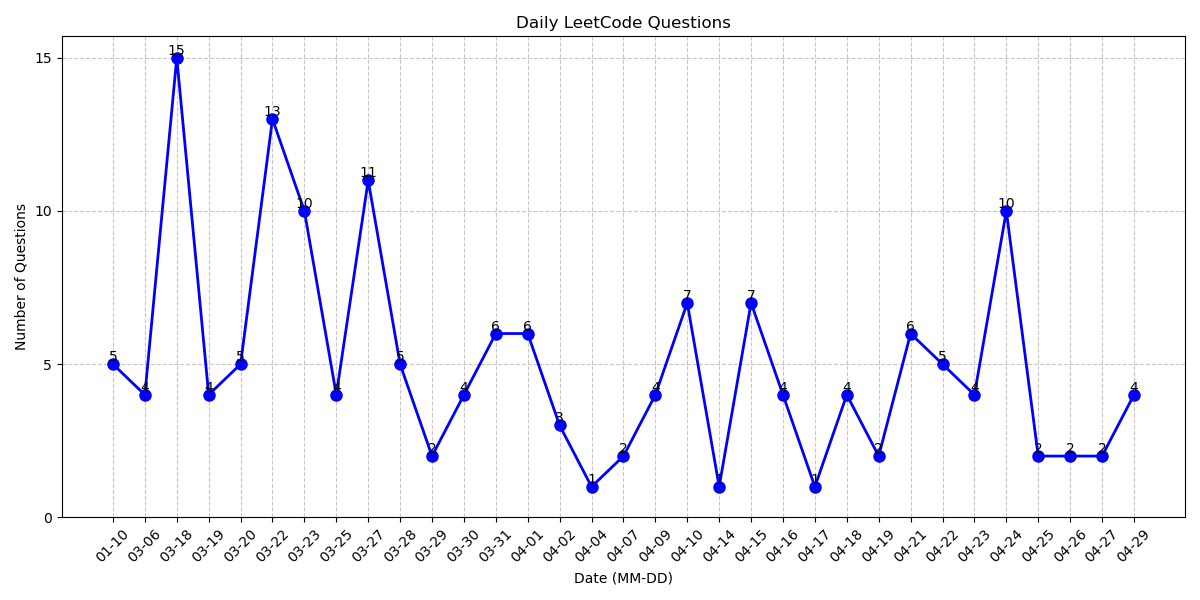
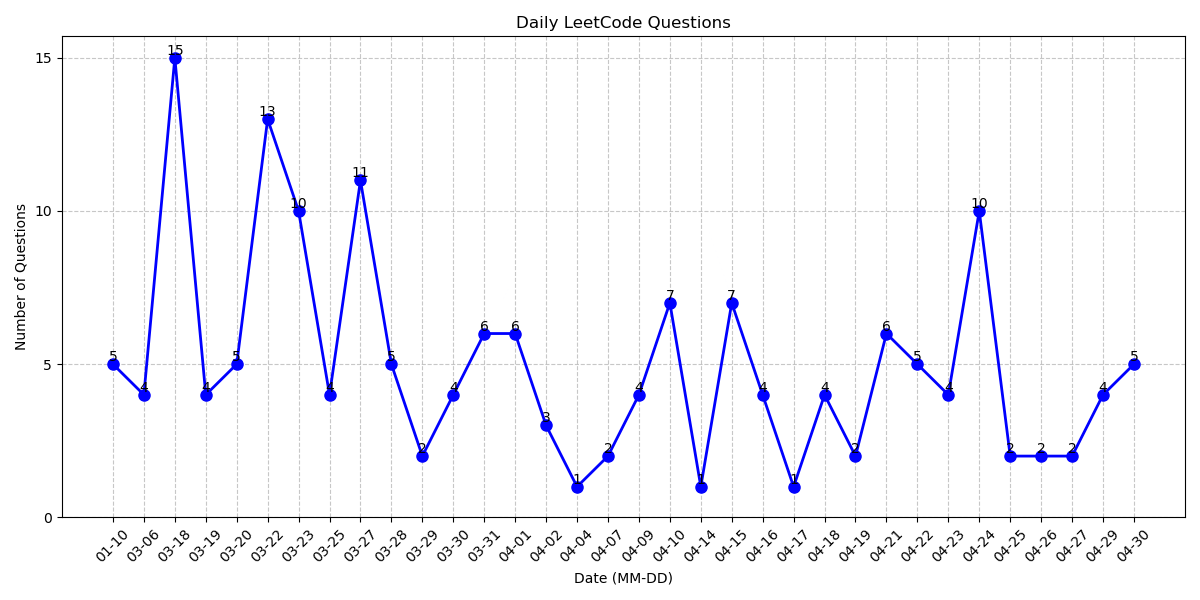
4/30 pratices linklist, stack, daily leecode

Changed region(s): [[0.1233, 0.06, 0.9558, 0.84], [0.0925, 0.87, 0.9558, 0.93], [0.0925, 0.6, 0.1233, 0.66]]

diff --git a/LinkList/25. Reverse Nodes in k-Group.cpp b/LinkList/25. Reverse Nodes in k-Group.cpp
@@ -1,0 +1,74 @@
+// solution
+/* 難到靠杯*/
+/**
+ * Definition for singly-linked list.
+ * struct ListNode {
+ *     int val;
+ *     ListNode *next;
+ *     ListNode() : val(0), next(nullptr) {}
+ *     ListNode(int x) : val(x), next(nullptr) {}
+ *     ListNode(int x, ListNode *next) : val(x), next(next) {}
+ * };
+ */
+/*
+2->1  3->4->5
+
+2->1  4->3  5
+
+*/
+class Solution {
+  public:
+	ListNode *reverseKGroup(ListNode *head, int k) {
+		ListNode *dummy = new ListNode(0);
+		dummy->next = head;
+		ListNode *prev_group_end = dummy;
+		while (true) {
+			ListNode *group_start =
+			    prev_group_end->next; // pointer to current group start
+			ListNode *k_th = findKthNode(group_start, k);
+			// 後續node不足k個, 不需要處理
+			if (!k_th)
+				break;
+			ListNode *next_group_start =
+			    k_th->next; // pointer to next group start
+
+			/* reverse group */
+			ListNode *prev =
+			    next_group_start; /* 先暫時黏到下一個group start,
+			                        如果下一個group不滿足ｋ個就不處理,
+			                        不然就會會在(handle different
+			                       group connection)處理
+			                      */
+			ListNode *cur = group_start;
+			while (cur != next_group_start) {
+				ListNode *tmp = cur->next;
+				cur->next = prev;
+				prev = cur;
+				cur = tmp;
+			}
+			/**/
+
+			/* handle different group connection */
+			// set prev_end next to kth
+			prev_group_end->next = k_th;
+
+			// update prev_group_end to current group start
+			prev_group_end = group_start;
+			/**/
+		}
+		return dummy->next;
+	}
+	ListNode *findKthNode(ListNode *start, int k) {
+		int count = 0;
+		ListNode *k_th = nullptr;
+		while (start != nullptr) {
+			++count;
+			if (count == k) {
+				k_th = start;
+				break;
+			}
+			start = start->next;
+		}
+		return k_th;
+	}
+};

diff --git a/Stack&Queue/735. Asteroid Collision.cpp b/Stack&Queue/735. Asteroid Collision.cpp
@@ -1,0 +1,40 @@
+// proficient
+/*
+遇到curr_num > 0不斷push到stack, 直到遇到curr_num < 0就將stack
+pop出來直到stack.top() > curr_num, 重複直到asteroids走完,
+剩下的stack就是剩下的asteroids
+*/
+class Solution {
+  public:
+	vector<int> asteroidCollision(vector<int> &asteroids) {
+		vector<int> asteroids_stack;
+		for (int i = 0; i < asteroids.size(); ++i) {
+			int cur_aster = asteroids[i];
+			if (cur_aster > 0) {
+				asteroids_stack.push_back(cur_aster);
+			} else {
+				bool win = true;
+				while (asteroids_stack.size() > 0) {
+					int size = asteroids_stack.size();
+					int opposite_aster = asteroids_stack[size - 1];
+					if (opposite_aster < 0) {
+						// same direction
+						break;
+					}
+					if (opposite_aster >= abs(cur_aster)) {
+
+						// 相撞的要抵銷
+						if (opposite_aster == abs(cur_aster))
+							asteroids_stack.pop_back();
+						win = false;
+						break;
+					} else
+						asteroids_stack.pop_back();
+				}
+				if (win)
+					asteroids_stack.push_back(cur_aster);
+			}
+		}
+		return asteroids_stack;
+	}
+};

diff --git a/Graph/463. Island Perimeter.cpp b/Graph/463. Island Perimeter.cpp
@@ -1,0 +1,41 @@
+// proficient
+/*
+    DFS, 無法走的方向preimeter+1
+    19 分鐘
+*/
+class Solution {
+  public:
+	vector<vector<int>> dirs = {{0, 1}, {1, 0}, {0, -1}, {-1, 0}};
+	vector<vector<bool>> visit;
+	int islandPerimeter(vector<vector<int>> &grid) {
+		// find start island pointer
+		int rows = grid.size();
+		int cols = grid[0].size();
+		visit.resize(rows, vector<bool>(cols, false));
+		for (int i = 0; i < grid.size(); ++i) {
+			for (int j = 0; j < grid[0].size(); ++j) {
+				if (grid[i][j] == 1) {
+					return dfs(grid, i, j);
+				}
+			}
+		}
+		return 0;
+	}
+	int dfs(vector<vector<int>> &grid, int row, int col) {
+		// if encounter the boundary or water, return 1(one part of island)
+		if (row < 0 || row >= grid.size() || col < 0 || col >= grid[0].size() ||
+		    grid[row][col] == 0)
+			return 1;
+		if (visit[row][col])
+			return 0;
+		visit[row][col] = true;
+		int perimeter = 0;
+
+		// dfs from 4 directions
+		for (auto &dir : dirs) {
+			perimeter += dfs(grid, row + dir[0], col + dir[1]);
+		}
+
+		return perimeter;
+	}
+};

diff --git a/SlidingWindow/2444.CountSubarraysWithFixedBounds.cpp b/SlidingWindow/2444.CountSubarraysWithFixedBounds.cpp
@@ -40,3 +40,46 @@ class Solution {
 		return res;
 	}
 };
+
+// 4/30 pratice again
+/*
+    先找合法start, 再找合法end
+*/
+class Solution {
+  public:
+	long long countSubarrays(vector<int> &nums, int minK, int maxK) {
+		int start = 0;
+		long long res = 0;
+		while (start < nums.size()) {
+
+			/* find [start, end] legal range*/
+			if (nums[start] < minK || nums[start] > maxK) {
+				++start;
+				continue;
+			}
+			int end = start;
+			while (end < nums.size() &&
+			       (nums[end] >= minK && nums[end] <= maxK))
+				++end;
+
+			// find minK, maxK position from legal range
+			int min_k_pos = -1;
+			int max_k_pos = -1;
+			for (int i = start; i < end; ++i) {
+				if (nums[i] == minK)
+					min_k_pos = i;
+				if (nums[i] == maxK)
+					max_k_pos = i;
+				if (min_k_pos != -1 && max_k_pos != -1) {
+					int mini_idx = min(min_k_pos, max_k_pos);
+					res += mini_idx - start + 1;
+				}
+			}
+
+			// find another legal range
+
+			start = end;
+		}
+		return res;
+	}
+};

diff --git a/Others/1295. Find Numbers with Even Number of Digits.cpp b/Others/1295. Find Numbers with Even Number of Digits.cpp
@@ -1,0 +1,21 @@
+// proficient
+/*
+    1. brutal force, 直接每個都算, O(n * d)
+    2.
+*/
+class Solution {
+  public:
+	int findNumbers(vector<int> &nums) {
+		int res = 0;
+		for (int &num : nums) {
+			int digits = 0;
+			while (num > 0) {
+				++digits;
+				num /= 10;
+			}
+			if (digits % 2 == 0)
+				++res;
+		}
+		return res;
+	}
+};

diff --git a/README.md b/README.md
@@ -1,8 +1,8 @@
 # LeetCode Problems
 
-❌  can't resolve without solution: 8
+❌  can't resolve without solution: 9
 📝  can't resolve without hint: 129
-✅  resolve by self: 15
+✅  resolve by self: 18
 ## Tree
 - 📝 PrefixTree
 - 📝 230.KthSmallestElementBST
@@ -53,6 +53,7 @@
 - 📝 210.CourseSchedule2
 - 📝 maxLand
 - 📝 rottingFruit
+- ✅ 463. Island Perimeter
 
 ## Recursive
 - 📝 wordSearch
@@ -106,6 +107,7 @@
 - 📝 168.ExcelSheetColumnTitle
 - 📝 insertInterval
 - ✅ 435.Non-overlappingIntervals
+- ✅ 1295. Find Numbers with Even Number of Digits
 - ✅ 48.rotateImg
 
 ## Heap&PriorQueue
@@ -142,9 +144,11 @@
 - 📝 MinStack
 - ✅ 225.implementStackwithQueue
 - ✅ baseBallGame
+- ✅ 735. Asteroid Collision
 
 ## LinkList
 - ❌ duplicateNumber
+- ❌ 25. Reverse Nodes in k-Group
 - 📝 basic
 - 📝 merge
 - 📝 138opyWithRandomPointer
@@ -186,7 +190,7 @@
 - ✅ uniquePath
 
 ## Statistics
-Current total questions: 152
+Current total questions: 156
 
 <img src="chart.png" alt="questions bar chart" width="500">
 
